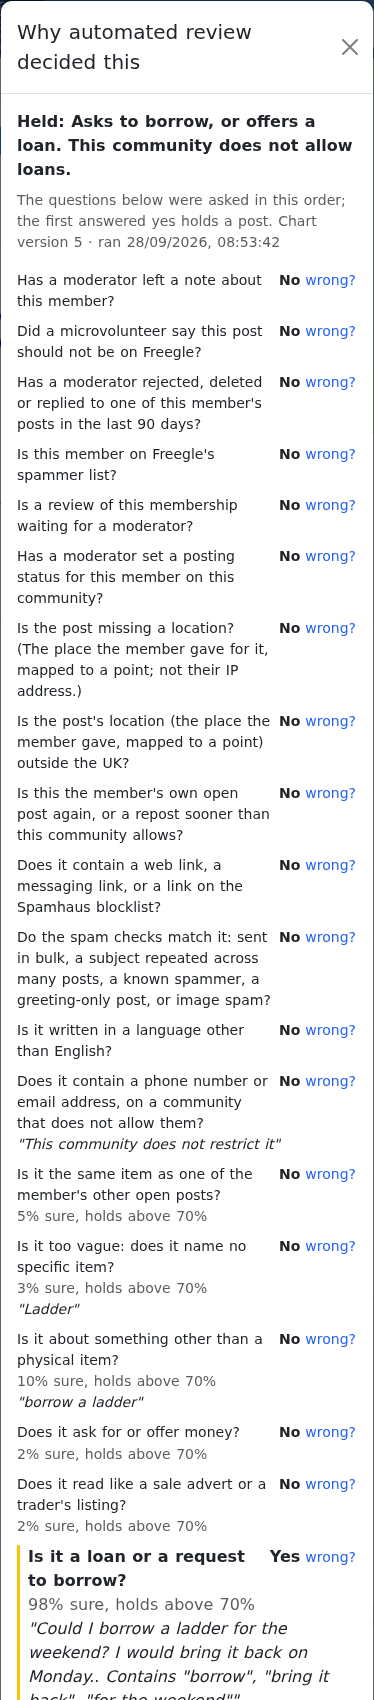
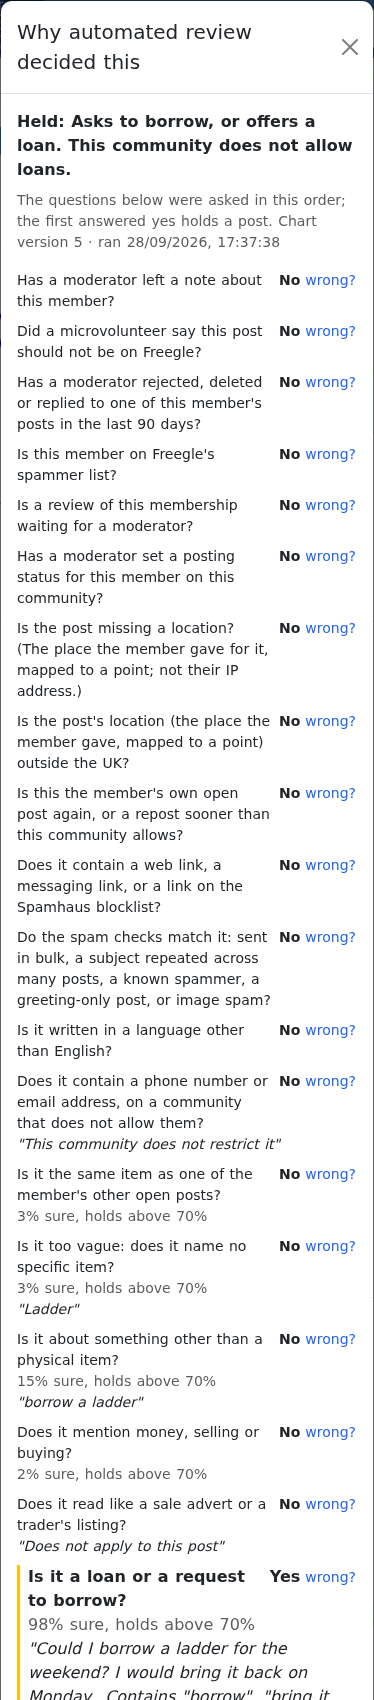
feat(automod): any mention of money, selling or buying holds; measure on the text the moderator saw
Members often edit a post after it is rejected and take out the words that got it
rejected, so the evaluation now walks each post back through messages_edits to its text
before the first edit after the decision. Read that way, the steady moderators' set holds
197 of 216 rejections (borrow/swap 97%, money 98%) and 16 of 300 approved posts.

The money question holds any mention of money, selling or buying, price or not, including
"selling" as a figure of speech and what an item cost: readers cannot tell whether such a
post is free. The swap question holds a swap offered as one option alongside giving.

diff --git a/automod/src/prompt.js b/automod/src/prompt.js
@@ -12,7 +12,7 @@
 export const KEYWORDS = {
   money: [
     '£', '$', '€', 'pound', 'pounds', 'quid', 'price', 'priced', 'cost', 'costs', 'ono', 'o.n.o',
-    'offers over', 'nearest offer', 'sell', 'selling', 'sale', 'sold', 'buy', 'buyer', 'buyers',
+    'offers over', 'nearest offer', 'auction', 'for sale', 'sell', 'selling', 'sale', 'sold', 'buy', 'buyer', 'buyers',
     'buying', 'purchase', 'paypal', 'cash', 'bank transfer', 'payment', 'pay', 'paid', 'fee',
     'fees', 'charge', 'charges', 'deposit', 'invoice', 'cheap', 'bargain', 'discount', 'worth',
     'rrp', 'delivery charge', 'petrol money', 'fuel money', 'postage', 'p&p', 'donation',

diff --git a/plans/active/automod-flowchart.md b/plans/active/automod-flowchart.md
@@ -316,56 +316,51 @@ model's answer. The model's answer now decides; the confidence is shown.
 
 516 posts decided by moderators in the middle rejection-rate band: 216 rejected with a text
 reason (49 vague, 41 money, 36 not an item, 32 borrow or swap, 30 medicine, 26 animals, 2
-other) and 300 approved. Chart version 5, Claude through the CLI with the review pass, and
-Jev on the same questions. Holds by the moderator's reason:
+other) and 300 approved.
 
-| reason | posts | v4 Claude | v5 Claude | v5 Jev |
-|---|---|---|---|---|
-| vague | 49 | 37 (76%) | 35 (71%) | 35 (71%) |
-| money | 41 | 26 (63%) | 26 (63%) | 17 (41%) |
-| not an item | 36 | 31 (86%) | 33 (92%) | 29 (81%) |
-| borrow/swap | 32 | 18 (56%) | 16 (50%) | 16 (50%) |
-| medicine | 30 | 25 (83%) | 28 (93%) | 24 (80%) |
-| animals | 26 | 24 (92%) | 25 (96%) | 25 (96%) |
-| approved | 300 | 10 (3%) | 9 (3%) | 7 (2%) |
+**Read the text the moderator saw, not the post as it is now.** Members often edit a post
+after it is rejected and take out the words that got it rejected: "a torque wrench I could
+lend or be donated" became "to be donated", "rest all fine £60" became "collection only".
+52 of the 516 changed after the decision, 27 of them borrow/swap or money rejections. The
+first measurement read the edited text, and so did the first adjudication, which then
+blamed the moderator for rejecting a post that no longer said what they rejected. The set is
+now rebuilt from `messages_edits`, walking each post back to its text before the first
+edit after the decision.
 
-Level overall (165 of 216 rejections held against 163), which is the wrong way to read it,
-because the moderators' labels are what version 5 was built not to copy. The posts it was
-built to catch, it now catches: "I need cocker" (animal wanted), the discount code and
-the e-tickets (not an item), the appeal to buy tinned food (not an item), the copied
-cooker and sofa listings (money, sale advert), the inhaler spacer and lens solution
-(medical products). The hayfever spray is answered yes and then correctly let through,
-because that community allows non-prescription medicine.
+**Any mention of money, selling or buying holds, price or not.** "Selling as too big for the
+room" is a member giving the item away, as their later edit to "giving it away" shows, but
+readers cannot tell, and moderators reject it. The money question now holds any mention: a
+price, cash, what it cost or is worth, a bargain, "selling" even as a figure of speech. The
+swap question holds a swap offered as one option alongside giving ("gifting or swapping for
+another plant").
 
-`scripts/adjudicate.mjs` then asked the model to judge every disagreement with a
-moderator, the way I had been reading them by eye. The model judging itself is a fallible
-judge too, so these are its opinion, not a score:
+Holds by the moderator's reason, on the text the moderator saw:
 
-| | v4 | v5 |
-|---|---|---|
-| rejections not held: the model's own miss | 10 | 5 |
-| the moderator's error | 18 | 21 |
-| a template naming a rule the post does not break | 20 | 16 |
-| a stricter local rule (one item per post, sizes) | 10 | 8 |
-| approved posts held: the model's error | 7 | 8 |
-| approved posts held: the moderator missed it | 1 | 1 |
+| reason | posts | Claude | Jev |
+|---|---|---|---|
+| vague | 49 | 36 (73%) | 36 (73%) |
+| money | 41 | 40 (98%) | 39 (95%) |
+| not an item | 36 | 34 (94%) | 32 (89%) |
+| borrow/swap | 32 | 31 (97%) | 29 (91%) |
+| medicine | 30 | 28 (93%) | 25 (83%) |
+| animals | 26 | 26 (100%) | 25 (96%) |
+| approved | 300 | 16 (5%) | 15 (5%) |
 
-The five remaining misses are a copied sale advert with no price and "Buyer must remove"
-(the model reads it as free), a "real bargain" leather suite, a torque wrench wanted on a
-community that rejects most tool requests as loans, one multi-item Wanted, and one medical
-item. The eight false holds are the vagueness boundary (a brand of devices, "clothes for a
-woman" with sizes, "plants and seeds") and Wanteds the sale-advert question read as a
-trader collecting stock. Asked on its own, its evidence shows why: "Items received in
-response to this request will be resold", "trying to make a living upcycling", "We are a
-workshop". Those are traders asking for stock, which Freegle allows where it is declared
-(the declareselling rule) and which is a moderator's call, so the sale-advert question
-now applies to Offers only.
+197 of 216 rejections held (91%), with each community's rules applied as production applies
+them (`scripts/walk-from-answers.mjs`). The cost of holding any mention of money is on
+approved posts: 10 of the 16 held are money mentions a moderator let through, such as
+"giving away not selling", "rather than buying brand new", "the latest edition costs £300"
+and "with a view to eBay". That is the intended trade: a moderator glances at them.
 
-Jev is level with Claude on the item questions and well behind on money and sale adverts.
-It answers no review pass and no features, so its numbers are the plain question. It stays
-the comparison backend.
+`scripts/adjudicate.mjs` then judged the 35 disagreements. Of the 19 rejections not held,
+on the model's reading 4 are its own misses: two one-word Wanteds ("Bad", "Bike tv") and two
+non-prescription medicines (head-lice lotion, hayfever spray) on a community that allows
+them, which the adjudicator is not told, so those two are correct. The other 15: 11 vague
+rejections (3 of posts that name an item, 4 templates naming a rule the post does not
+break, 4 local one-item-per-post rules), and 4 money, not-an-item or borrow rejections it
+calls a template, a local rule or the moderator's error. Of the 16 approved posts held, it
+calls 15 the review's error; by the rule that any mention of money holds, 10 of those are
+intended. The vague boundary is what is left, and shadow mode on real communities, with
+the step-is-wrong marks, is where it gets settled.
 
-What is left is mostly not the model. Of the 51 rejections version 5 does not hold, 45
-are, on the model's reading, the moderator's error, a template that names a rule the post
-does not break, or a stricter local rule. Shadow mode on real communities, with the
-step-is-wrong marks, is the way to see how often that reading is right.
+Jev is close behind Claude everywhere on this set and stays the comparison backend.

diff --git a/docs/moderators/post-moderation.md b/docs/moderators/post-moderation.md
@@ -426,9 +426,10 @@ flowchart of plain questions, the same for every community, kept centrally:
    as one of the member's other open posts, compared as items rather than as wording;
    does it name a specific item, or only "anything" or a category; is it about
    something other than a physical item, including codes, e-tickets and appeals to buy
-   new goods; does it ask for or offer money in any form, including "donations" and
-   delivery money; does it read like a sale advert or a trader's listing; a loan;
-   something in exchange; illegal, counterfeit or stolen; a hazardous substance;
+   new goods; does it mention money, selling or buying in any way, even with no price
+   (any mention holds, including "donations" and
+   delivery money); does it read like a sale advert or a trader's listing; a loan;
+   any mention of swapping, even as one option; illegal, counterfeit or stolen; a hazardous substance;
    animals; weapons, firearms, knives; prescription medicine, non-prescription medicine
    and supplements, animal medicine; contact lenses and lens solution; alcohol,
    tobacco, vaping; tickets and vouchers; gas cylinders; and, where a concern word
@@ -453,13 +454,14 @@ It runs in two modes, set centrally per community for the trial:
 How well it does was measured against real decisions, treating neither the model nor the
 moderator as always right. Only decisions by moderators in the middle of the range were
 used: over six months the median moderator rejects 1.7% of what they see, and the strictest
-reject 13 to 17%, so those outside the middle half were left out. On 516 such posts, the
-review held about two thirds of the posts rejected as vague, selling or borrowing, and nine
-in ten of those rejected for animals, medicines or not being an item, and held 9 of 300
-posts moderators had approved. Of the rejections it did not hold, most were, on the
-model's own reading, the moderator's error, a standard message naming a rule the post
-did not break, or a stricter local rule such as one item per post. Its own misses were
-five. Many rejections turn on things the words of a post cannot show, such as a duplicate
+reject 13 to 17%, so those outside the middle half were left out. Each post was read as the
+moderator saw it, because members often edit a post after it is rejected. On 516 such posts,
+the review held 97% or more of the posts rejected for money, borrowing or swapping, 94% of
+those rejected as not an item or for medicines, all of those rejected for animals, and 73%
+of those rejected as vague. It held 16 of 300 posts moderators had approved, most of them
+because they mention money in passing ("giving away, not selling"), which it holds on
+purpose. Most of the vague rejections it does not hold name an item, or apply a stricter
+local rule such as one item per post. Many rejections turn on things the words of a post cannot show, such as a duplicate
 or a reason the moderator did not record. That is why the facts come first, and why a
 community runs in shadow before approve-only.
 
